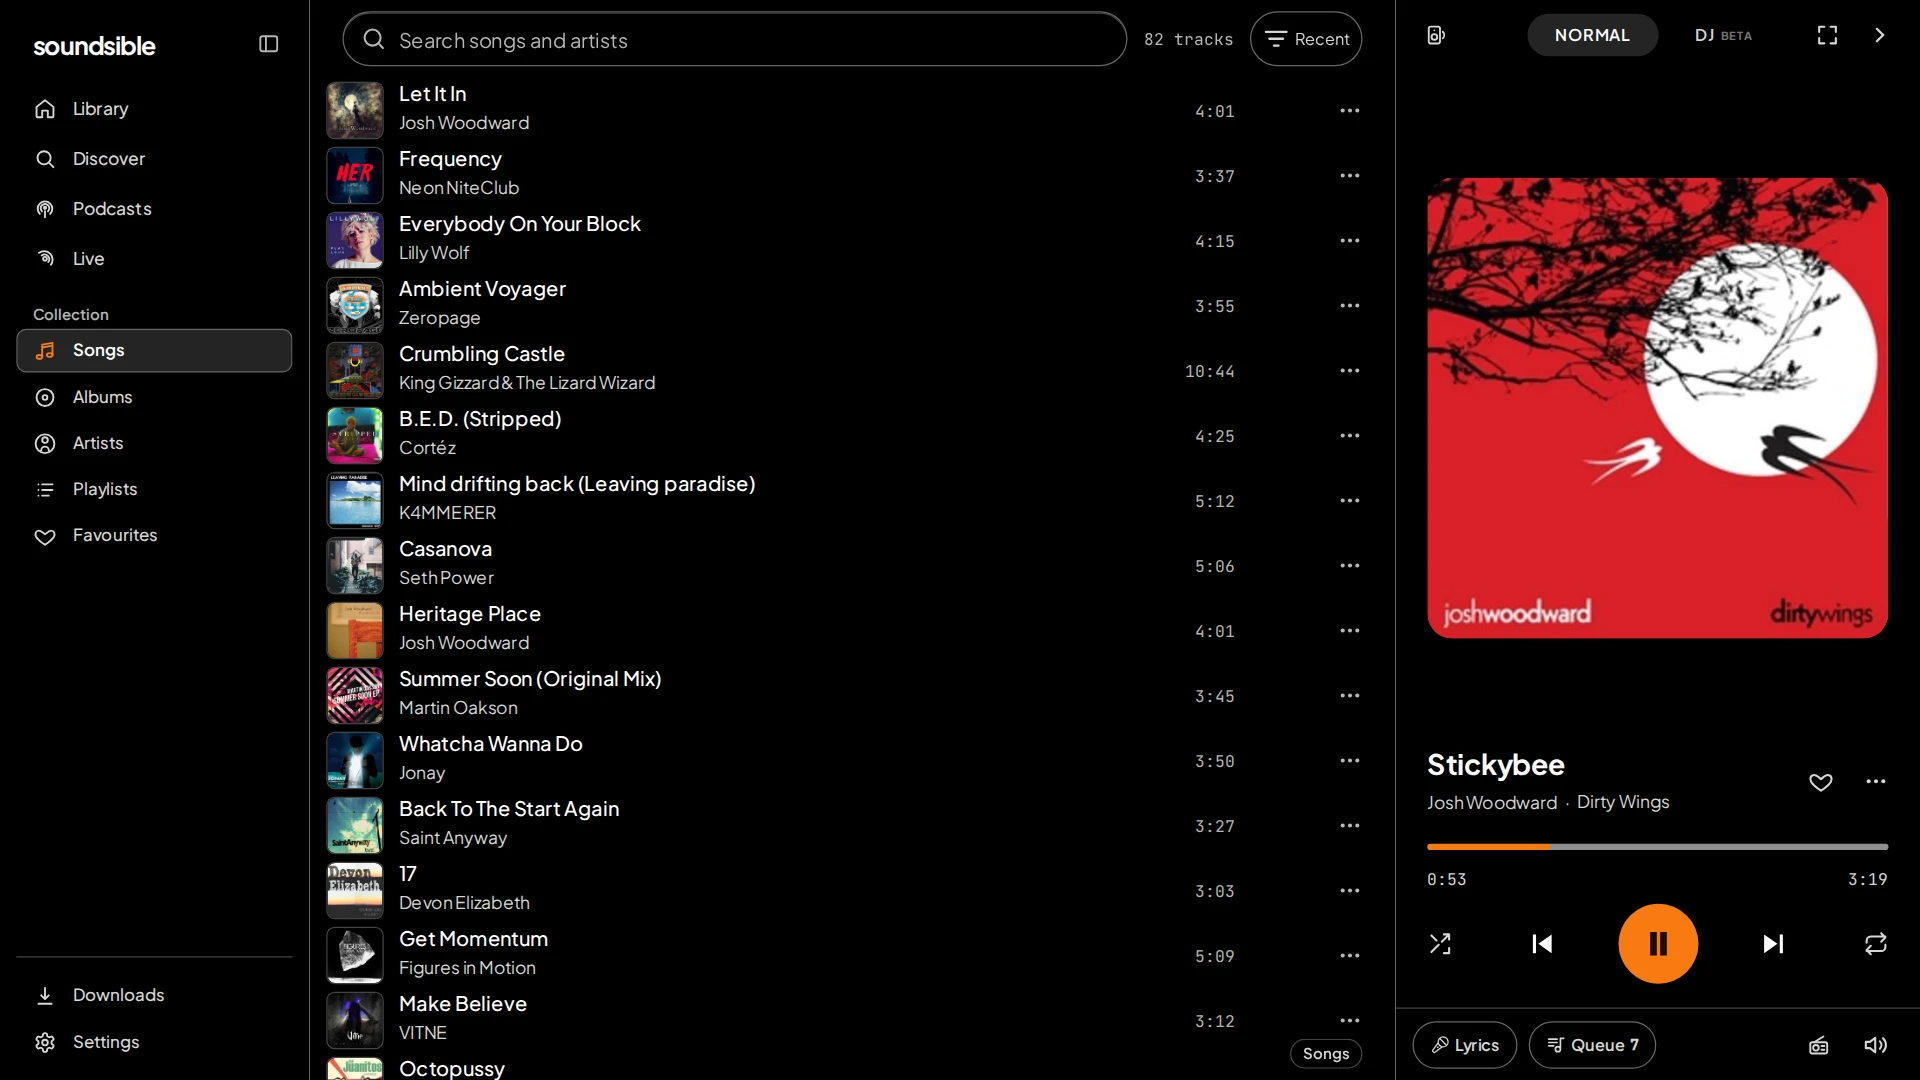
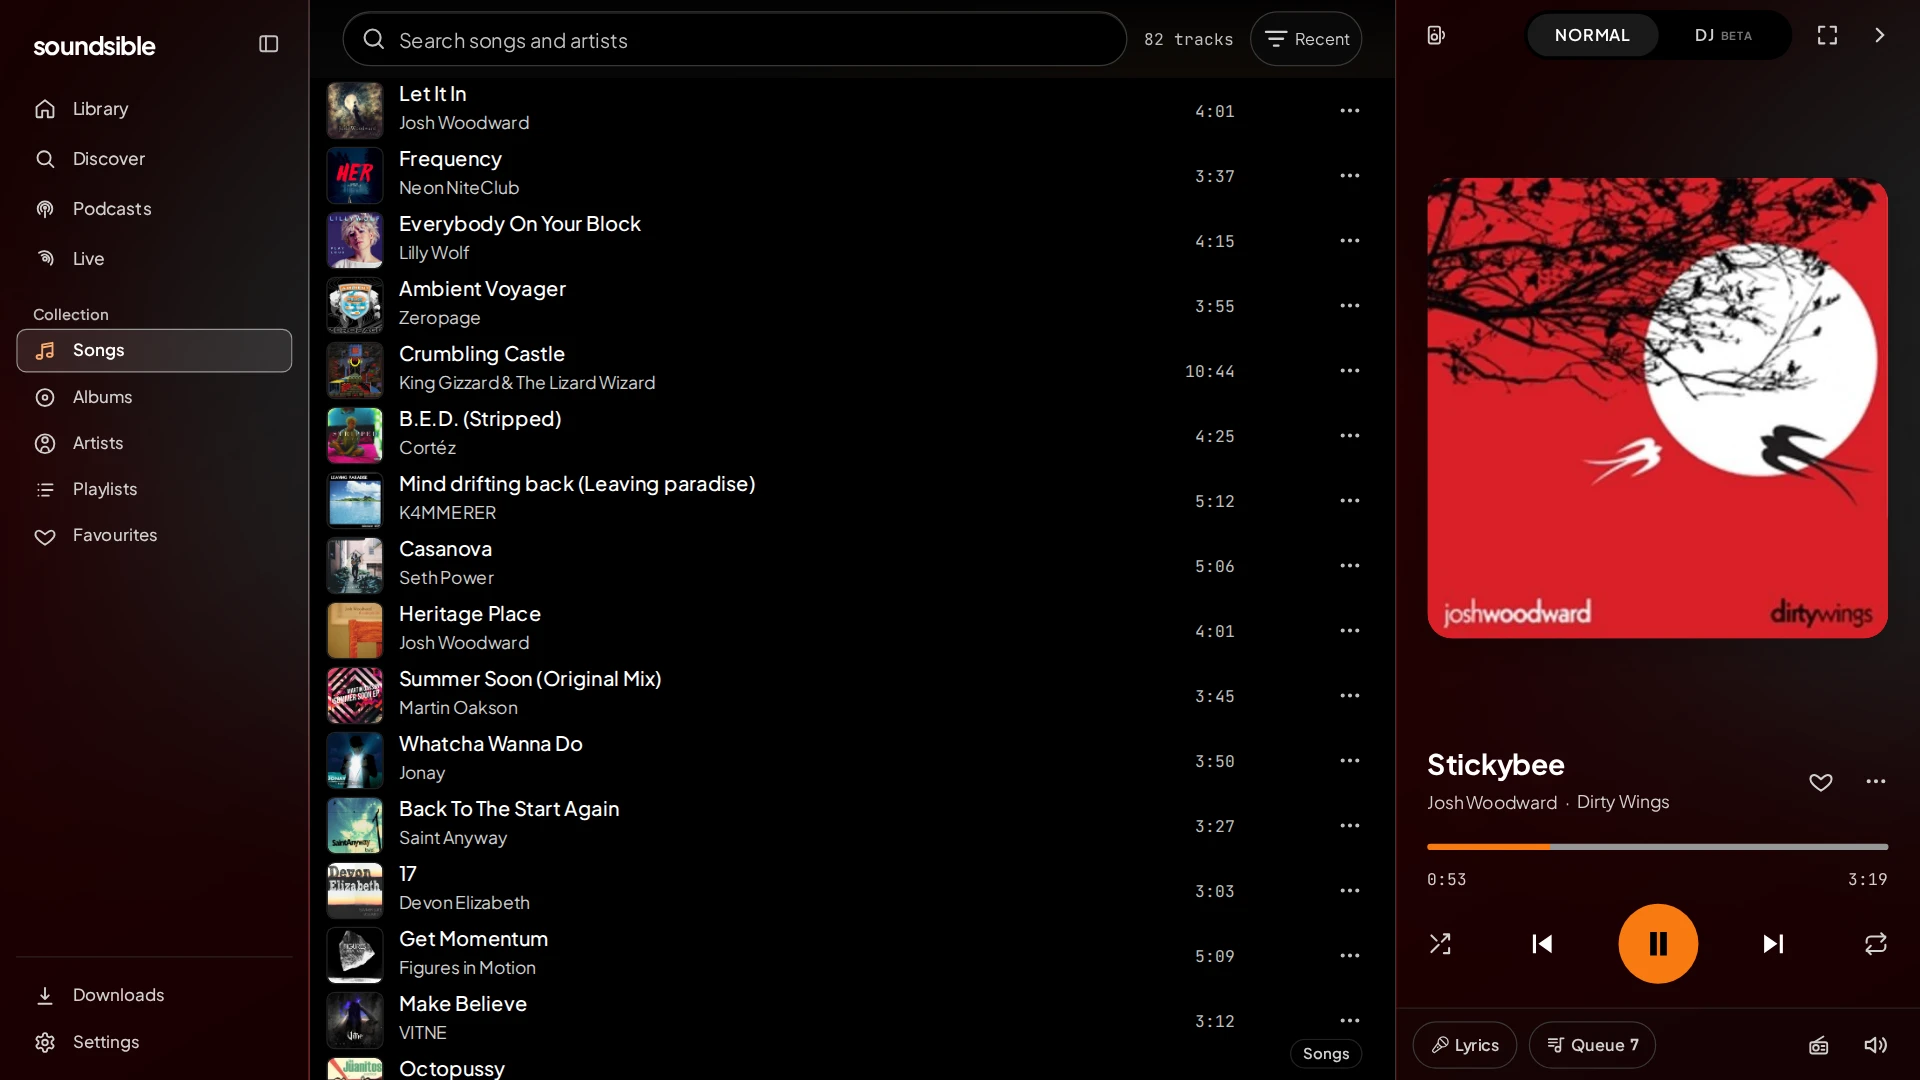
Refresh Soundsible showcase screenshots

diff --git a/ui_web/showcase/engine.ts b/ui_web/showcase/engine.ts
@@ -1,6 +1,8 @@
 import { readFileSync } from 'node:fs';
 import { join } from 'node:path';
 import type { Page, Route } from '@playwright/test';
+import { CUSTOM_COLORS_KEY } from '../src/boot/customColors.js';
+import { THEME_COLORS } from '../src/boot/themes';
 import catalog from './catalog/catalog.json' with { type: 'json' };
 
 /**
@@ -120,6 +122,14 @@ function stream(route: Route, body: Buffer) {
   });
 }
 
+// The landing's extra palettes are examples of the player's custom colors.
+const CUSTOM_PALETTES: Record<string, { canvas: string; accent: string }> = {
+  slate: { canvas: '#252d38', accent: '#f97a12' },
+  'pure-black': { canvas: '#000000', accent: '#f97a12' },
+  'forest-green': { canvas: '#0b110d', accent: '#f2a43a' },
+};
+export const SHOWCASE_PALETTES = [...Object.keys(THEME_COLORS), ...Object.keys(CUSTOM_PALETTES)];
+
 export async function mockShowcaseEngine(page: Page, theme: string): Promise<void> {
   await page.routeWebSocket('**/socket.io/**', (socket) => socket.close());
   await page.route('**/socket.io/**', (route) => route.abort());
@@ -192,10 +202,11 @@ export async function mockShowcaseEngine(page: Page, theme: string): Promise<voi
     if (!QUIET.has(path)) console.warn(`showcase engine: nothing answers ${route.request().method()} ${path}`);
     return json({});
   });
-  await page.addInitScript((theme) => {
+  await page.addInitScript(({ theme, colors, colorsKey }) => {
     localStorage.clear();
     localStorage.setItem('lang', 'en');
-    localStorage.setItem('theme', theme);
+    localStorage.setItem('theme', colors ? 'custom' : theme);
+    if (colors) localStorage.setItem(colorsKey, JSON.stringify(colors));
     localStorage.setItem('soundsible:interface-size', 'normal');
     localStorage.setItem('device_id', 'showcase-device');
     // Freeze the audio clock at NOW_PLAYING_AT while letting the element enter
@@ -206,7 +217,7 @@ export async function mockShowcaseEngine(page: Page, theme: string): Promise<voi
       this.playbackRate = 0;
       return nativePlay.call(this);
     };
-  }, theme);
+  }, { theme, colors: CUSTOM_PALETTES[theme], colorsKey: CUSTOM_COLORS_KEY });
 }
 
 /** A session this device left paused: `NOW_PLAYING`, the requests queued

diff --git a/ui_web/showcase/screens.spec.ts b/ui_web/showcase/screens.spec.ts
@@ -1,18 +1,16 @@
 import { join } from 'node:path';
 import { expect, test, type Page } from '@playwright/test';
-import { THEME_COLORS } from '../src/boot/themes';
 import { settle } from '../tests/browser/settle';
-import { mockShowcaseEngine, NOW_PLAYING } from './engine';
+import { mockShowcaseEngine, NOW_PLAYING, SHOWCASE_PALETTES } from './engine';
 import { stillFrame, writePicture } from './picture';
 
 /**
  * Every screenshot, in every theme. Written to
  * `docs/images/screenshots/<theme>/<name>.webp`, where the README and the site
- * pick them up. These pictures represent the built-in light and dark modes.
+ * pick them up. The landing includes examples of custom colors.
  */
 
 const SCREENSHOTS = join(import.meta.dirname, '..', '..', 'docs', 'images', 'screenshots');
-const PALETTES = Object.keys(THEME_COLORS);
 
 async function startup(page: Page, route: string) {
   await page.goto(`/player/#${route}`);
@@ -63,7 +61,7 @@ const SHOTS: Array<{ name: string; project: 'desktop' | 'mobile'; themes?: strin
 ];
 
 for (const shot of SHOTS) {
-  for (const theme of shot.themes ?? PALETTES) {
+  for (const theme of shot.themes ?? SHOWCASE_PALETTES) {
     test(`${shot.name} · ${theme}`, async ({ page }, info) => {
       test.skip(info.project.name !== shot.project, `${shot.name} is a ${shot.project} screenshot`);
       await mockShowcaseEngine(page, theme);

diff --git a/docs/internal/showcase/readme.html b/docs/internal/showcase/readme.html
@@ -5,13 +5,13 @@
 <title>Soundsible README device composition</title>
 <style>
   * { box-sizing: border-box; margin: 0; }
-  html, body { width: 1600px; height: 1024px; overflow: hidden; }
+  html, body { width: 1600px; height: 960px; overflow: hidden; }
   body { position: relative; background: transparent; }
   .desktop {
     position: absolute;
-    left: 100px;
-    top: 64px;
-    width: 1440px;
+    left: 32px;
+    top: 32px;
+    width: 1536px;
     border-radius: 14px;
     overflow: hidden;
     box-shadow: 0 18px 36px #0004, 0 2px 8px #0003;
@@ -20,9 +20,9 @@
   picture, img { display: block; width: 100%; }
   .phone {
     position: absolute;
-    left: 44px;
-    top: 340px;
-    width: 286px;
+    left: 800px;
+    top: 210px;
+    width: 314px;
     padding: 7px;
     border: 2px solid #55565a;
     border-radius: 44px;

diff --git a/ui_web/showcase/card.html b/ui_web/showcase/card.html
@@ -30,9 +30,9 @@
   p { margin-top: 24px; font-size: 36px; line-height: 1.25; letter-spacing: -0.025em; font-weight: 500; color: #d1d5ce; white-space: nowrap; }
   .desktop {
     position: absolute;
-    left: 640px;
-    top: 144px;
-    width: 560px;
+    left: 590px;
+    top: 130px;
+    width: 610px;
     border-radius: 10px;
     overflow: hidden;
     outline: 1px solid #ffffff26;
@@ -41,9 +41,9 @@
   img { display: block; width: 100%; }
   .phone {
     position: absolute;
-    left: 594px;
-    top: 218px;
-    width: 142px;
+    left: 860px;
+    top: 140px;
+    width: 160px;
     padding: 4px;
     border: 1px solid #55565a;
     border-radius: 23px;

diff --git a/docs/internal/showcase/README.md b/docs/internal/showcase/README.md
@@ -8,8 +8,9 @@ upper corners clear of the library header, with vector signal, Wi-Fi and
 battery icons. The library capture retains its original aspect ratio below
 that area. No swipe indicator overlays the capture.
 The transparent canvas follows the README background.
-The phone overlaps only the lower part of the desktop's left sidebar,
-leaving the song list and the entire docked player column visible.
+The phone overlaps the right half of the Songs list, covering some durations
+and sitting slightly over the row menus. The sidebar stays fully visible, and
+a gap separates the phone from the docked player.
 
 After installing the dependencies in `ui_web/`, run
 `node scripts/render_readme.mjs` from the repository root to compose both PNGs
@@ -27,9 +28,9 @@ The source captures retain their existing Jamendo music credits in
 It uses the landing header's flat dark background, rounded icon and lowercase
 wordmark, with only “self-hosted music experience” below it, kept on one line
 at 36px with brighter text for small feed previews. The desktop shell
-shows lyrics, library and queue; the overlapping phone uses the same intact
-mobile-library capture as the README. The dark desktop-lyrics capture is staged
-by `screens.spec.ts`; the README composition and its source captures are unchanged.
+shows lyrics beside the Songs list. The phone overlaps the Songs rows as in the
+README and uses the same mobile-library capture. The dark
+desktop-lyrics capture is staged by `screens.spec.ts`.
 
 All three elements fit within the central 1280×480 region, with at least 80px
 of horizontal padding. `card.spec.ts` checks these bounds and GitHub's 1 MB

diff --git a/README.md b/README.md
@@ -17,7 +17,7 @@ library, playlists and listening history on that computer. It needs no
 streaming subscription and no account with any service, and it is free and
 open source (MIT).
 
-<picture><source media="(prefers-color-scheme: light)" srcset="docs/images/readme-light.png"><img src="docs/images/readme-dark.png" alt="Soundsible desktop library with the player docked on the right, and the mobile music library overlapping its lower left corner" width="100%"></picture>
+<picture><source media="(prefers-color-scheme: light)" srcset="docs/images/readme-light.png"><img src="docs/images/readme-dark.png" alt="Soundsible desktop library with the player docked on the right, and the mobile music library overlapping the right side of the Songs list" width="100%"></picture>
 
 <details>
 <summary>More screenshots: search, library and mobile lyrics</summary>
